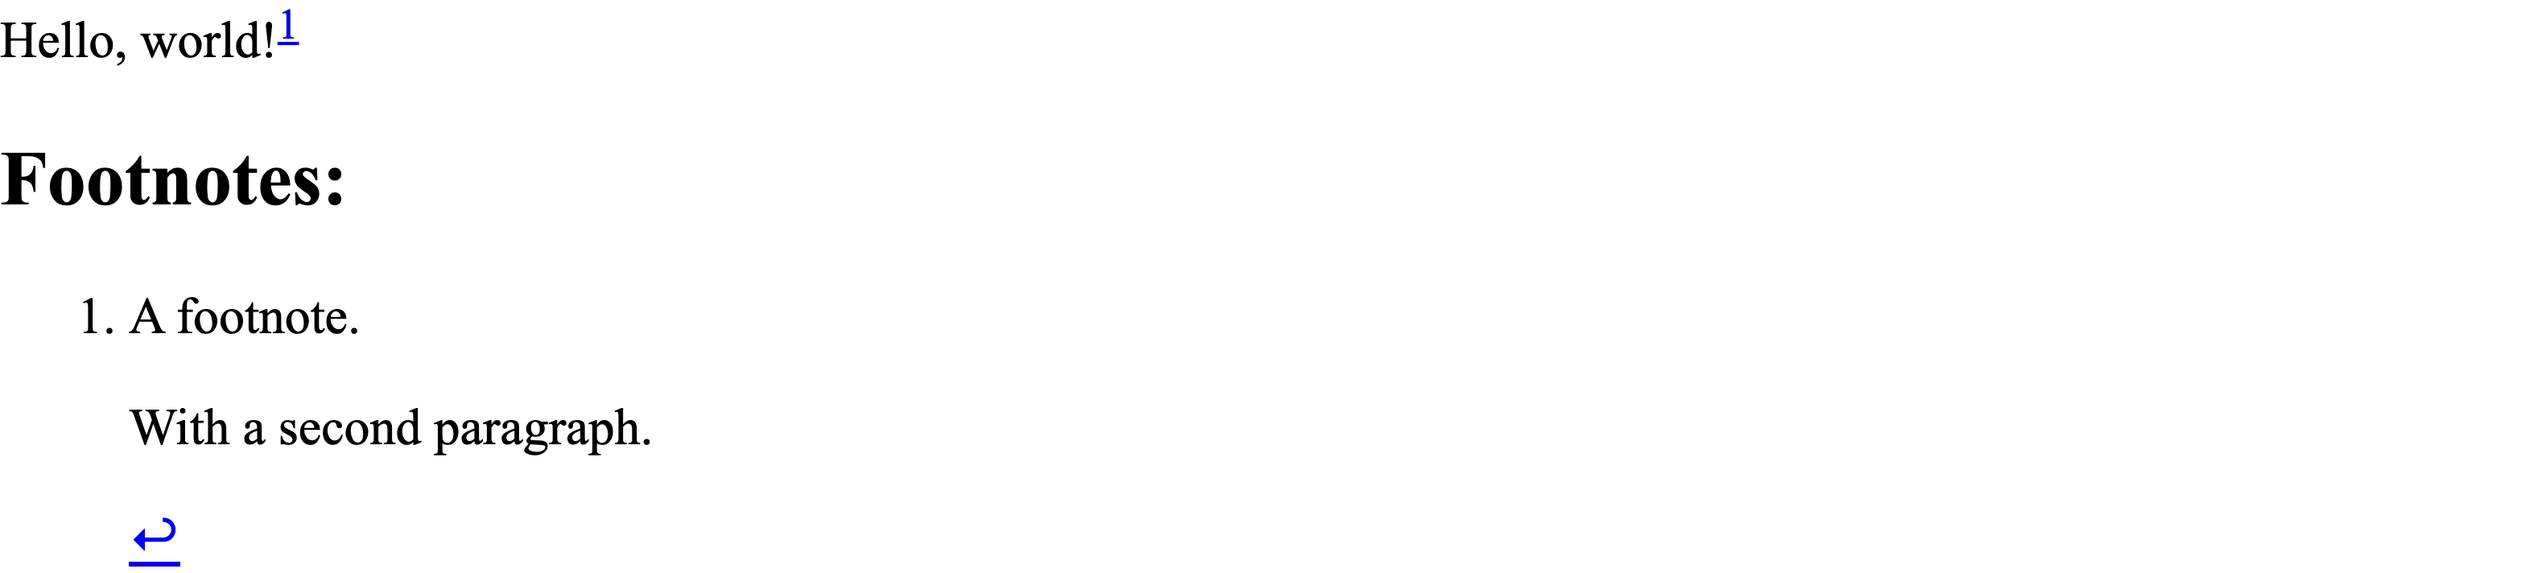
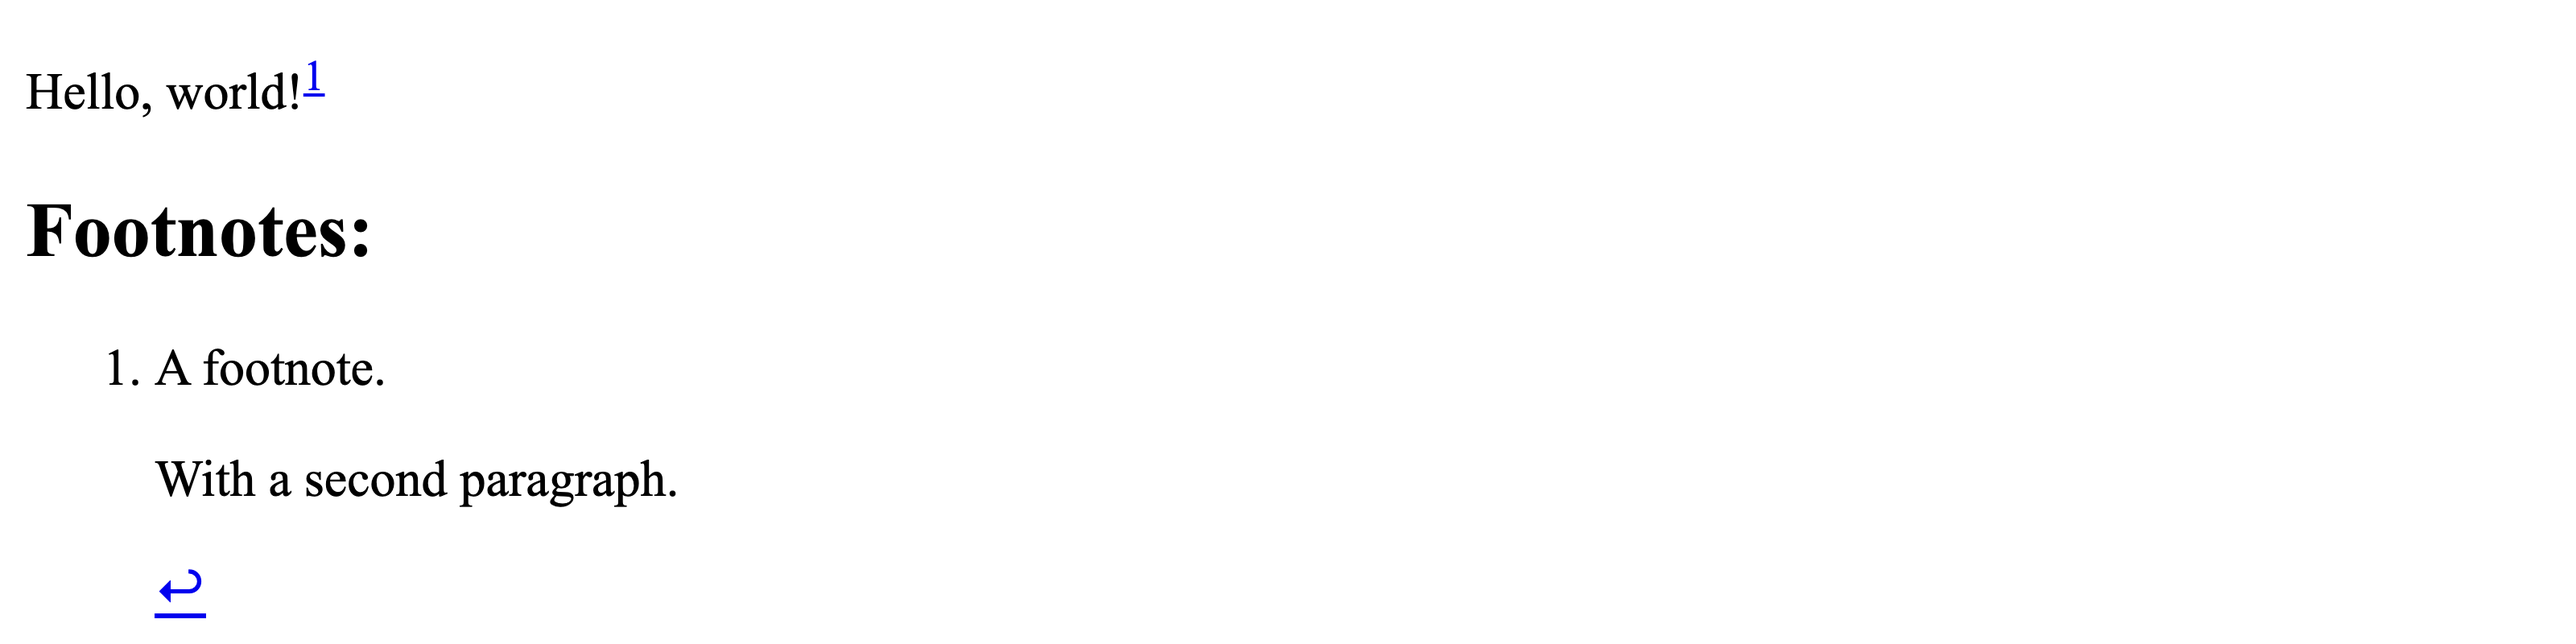
Add bottom padding to screenshots

diff --git a/scripts/screenshots.js b/scripts/screenshots.js
@@ -12,14 +12,10 @@ const puppeteer = require('puppeteer');
   });
 
   await page.goto(`file://${__dirname}/../test/fixtures/footnote.html`);
-  await page.waitForSelector('body');
-  body = await page.$('body');
-  await body.screenshot({path: "./before.png"});
+  await page.screenshot({path: "./before.png"});
 
   await page.goto(`file://${__dirname}/../test/fixtures/footnote-2.html`);
-  await page.waitForSelector('body');
-  body = await page.$('body');
-  await body.screenshot({path: "./after.png"});
+  await page.screenshot({path: "./after.png"});
 
   await page.close();
   await browser.close();
